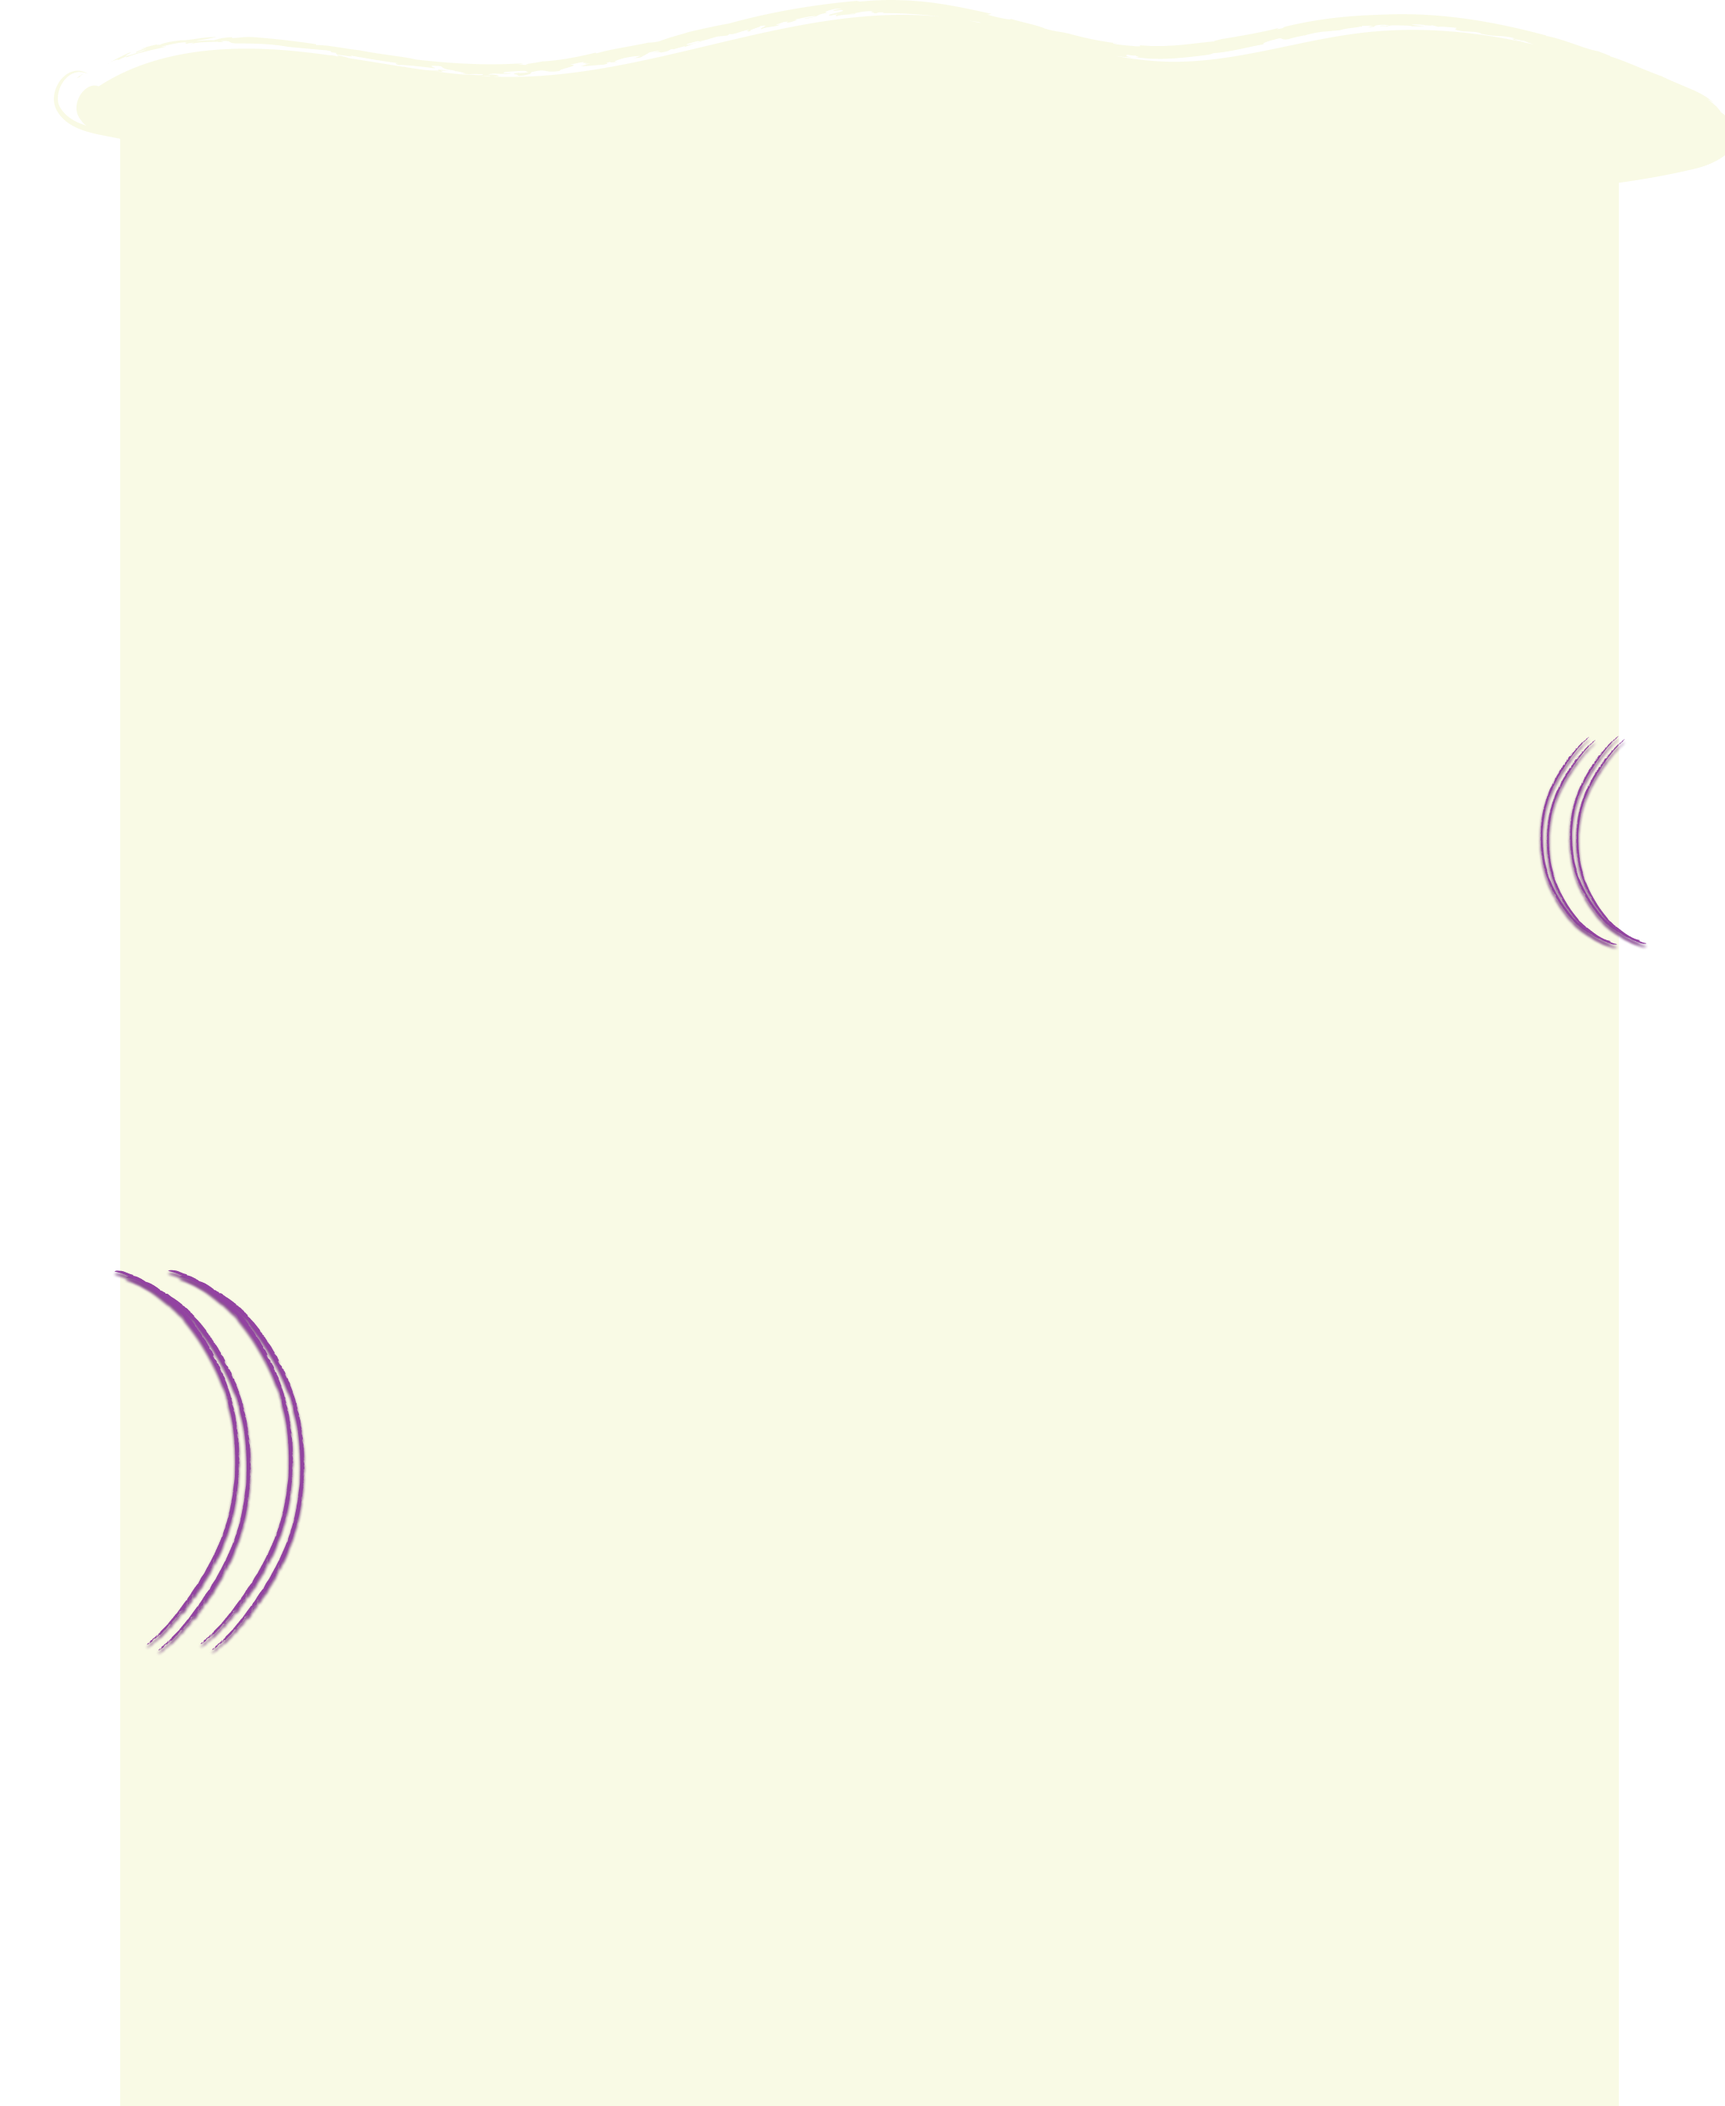
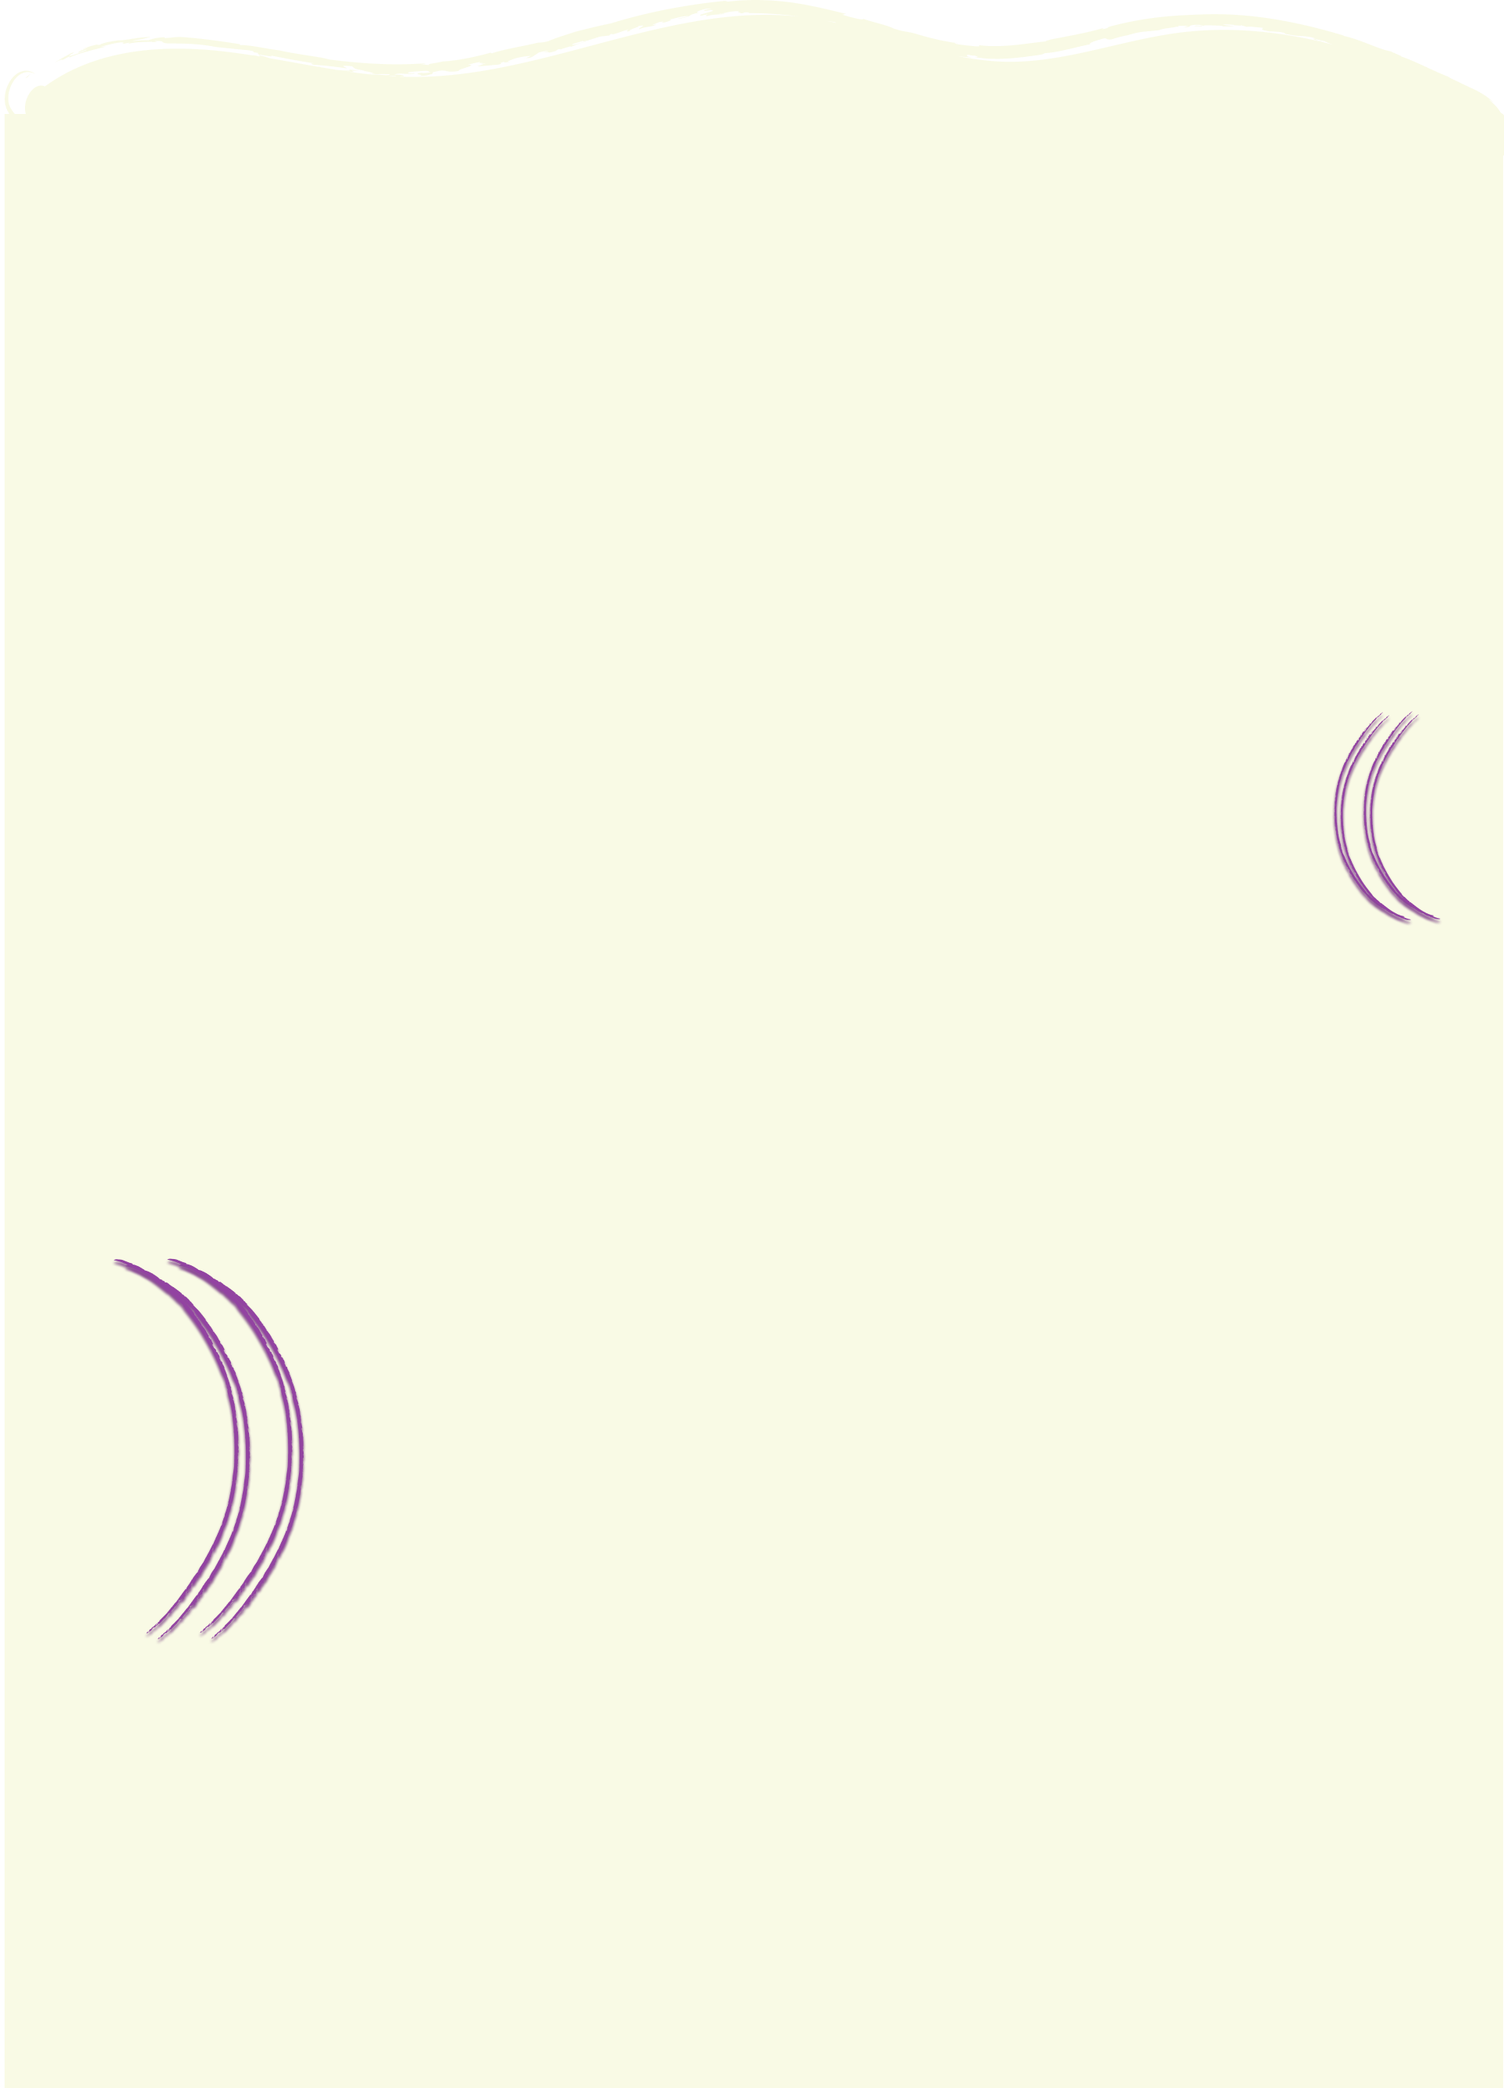
actividades

diff --git a/actividades.html b/actividades.html
@@ -25,16 +25,17 @@ Son espacios de juego, participación y disfrute en familia, donde
 Compartimos lo aprendido y seguimos  construyendo vínculos
             </p>
         </section>
-        <div class="fondo-actividades"></div>
-        <section>
-           <article class="carrusel">
-                <div class="elemento"><img src="img/evento-feliz-navidad.jpg" alt=""></div>
-                <div class="elemento"><img src="img/evento-bienvenida-primavera.jpg" alt=""></div>
-                <div class="elemento"><img src="img/evento-25-de-mayo.jpg" alt=""></div>
-                <div class="elemento"><img src="img/dia-de-la-familia.jpg" alt=""></div>
-                <div class="elemento"><img src="img/evento-pascuas.jpg" alt=""></div>
-                <div class="elemento"><img src="img/evento-dia-de-la-maestra.jpg" alt=""></div>
-                <div class="elemento"><img src="img/evento-dia-de-las-profesiones.jpg" alt=""></div>
-           </article>
-        </section>  
+        <div class="fondo-actividades">
+          <section>
+            <article class="carrusel">
+                  <div class="elemento"><img src="img/evento-feliz-navidad.jpg" alt=""></div>
+                  <div class="elemento"><img src="img/evento-bienvenida-primavera.jpg" alt=""></div>
+                  <div class="elemento"><img src="img/evento-25-de-mayo.jpg" alt=""></div>
+                  <div class="elemento"><img src="img/dia-de-la-familia.jpg" alt=""></div>
+                  <div class="elemento"><img src="img/evento-pascuas.jpg" alt=""></div>
+                  <div class="elemento"><img src="img/evento-dia-de-la-maestra.jpg" alt=""></div>
+                  <div class="elemento"><img src="img/evento-dia-de-las-profesiones.jpg" alt=""></div>
+            </article>
+          </section> 
+        </div> 
     </main>

diff --git a/estilos.css b/estilos.css
@@ -208,13 +208,6 @@ header {
 }
 
 
-.main-actividades {
-  position: relative;
-  text-align: center;
-  padding: 100px 20px 150px;
-  background-color: #0B53AA;
-  min-height: 10px;
-}
 
 .texto-descriptivo-actividades {
   font-family: 'Poppins', sans-serif;
@@ -225,11 +218,26 @@ header {
   line-height: 1.6;
 }
 
+/*ACTIVIDADES*/
+
+.main-actividades {
+  position: relative;
+  text-align: center;
+  padding: 100px 20px 150px;
+  background-color: #0B53AA;
+  min-height: 10px;
+  z-index: 10px;
+}
+
 .fondo-actividades {
   background-image: url(img/fondo-actividades.png);
   background-repeat: no-repeat;
   background-position: bottom;
   background-size: cover;
+  max-width: 100%;
+  height: 1800px;
+  
+  
 }
 
 .carrusel {
